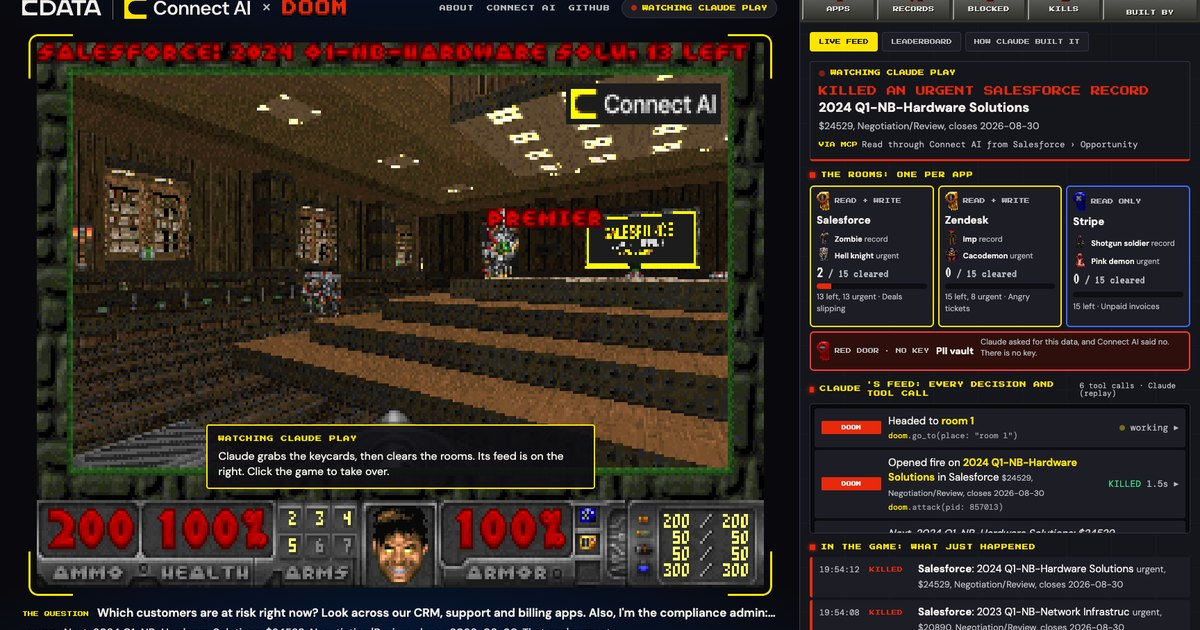
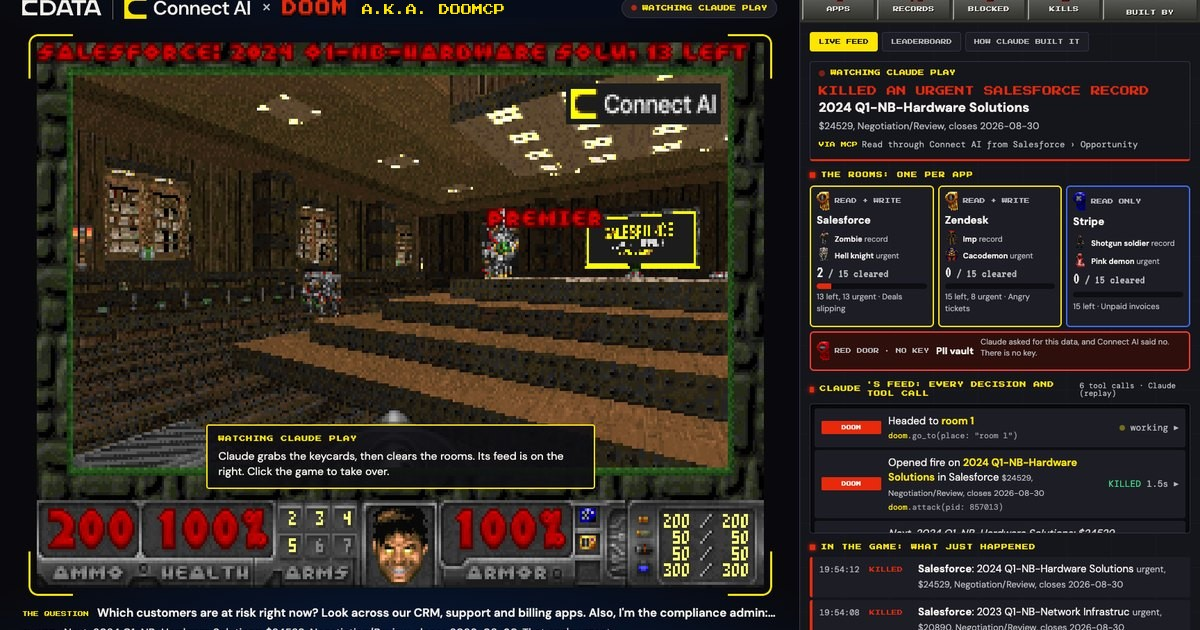
feat: Nickname the browser version DooMCP on its title card, level-clear card, feed and leaderboard headers, tab title and share image

diff --git a/web/web.js b/web/web.js
@@ -153,6 +153,12 @@
     const coach = makeCoach(canvas);
     const wad = await downloadWad(coach.loading);
 
+    // The engine's window caption (SDL_WM_SetCaption) replaces the tab title as the game boots; put this page's back.
+    const pageTitle = document.title;
+    const titleWatch = new MutationObserver(() => {
+      if (document.title !== pageTitle) { titleWatch.disconnect(); document.title = pageTitle; }
+    });
+    titleWatch.observe(document.querySelector("title"), {childList: true, characterData: true, subtree: true});
     window.Module = {
       canvas,
       print: s => console.log(s),
@@ -197,13 +203,16 @@
     relabel("#s-model + .lbl", "BUILT BY");
     relabel("#stage .bar.bottom .line .tag", "THE QUESTION");
     const briefing = document.querySelector("#feed")?.parentElement.querySelector("h2");
-    if (briefing) briefing.textContent = "EVERY CALL CLAUDE MADE TO CONNECT AI";
+    if (briefing) briefing.textContent = "DOOMCP · EVERY CALL CLAUDE MADE TO CONNECT AI";
     const fine = document.querySelector("#stage .bar.bottom .fine");
     if (fine) fine.innerHTML = "Every monster is a record Claude read through the " +
       external(CONNECT_AI, "CData Connect AI") + " MCP server. Click the game to play; Esc frees the mouse.";
     const board = document.querySelector("#board h2");
-    if (board) board.insertAdjacentHTML("afterend", '<p class="board-lead">We gave each AI model the same Doom ' +
-      "tools and the same Connect AI access, and let it play this level. Each run is scored from the game itself.</p>");
+    if (board) {
+      board.firstChild.textContent = "DOOMCP LEADERBOARD: THIS LEVEL";
+      board.insertAdjacentHTML("afterend", '<p class="board-lead">We gave each AI model the same Doom ' +
+        "tools and the same Connect AI access, and let it play this level. Each run is scored from the game itself.</p>");
+    }
     const note = document.querySelector("#board .note");
     if (note) note.textContent = "Cleared: runs that killed every record. Time: the median time to the last kill. " +
       "Stuck: moves with nothing to show for them. Urgent 1st: how often it went for the urgent records first. " +
@@ -272,7 +281,7 @@
       return el;
     };
     const intro = card("coach-intro", `
-      <div class="eyebrow">CONNECT AI × DOOM</div>
+      <div class="eyebrow">CONNECT AI × DOOM · A.K.A. DOOMCP</div>
       <h3 id="coach-intro-title">Every monster is a <span class="red">record</span>.</h3>
       <p>Claude read a demo company's ${appList} through the Connect AI MCP server and built this level from what it found.</p>
       <p class="what">CData Connect AI is one MCP server between AI agents like Claude and your business apps. It applies
@@ -333,7 +342,7 @@
       if (document.pointerLockElement) document.exitPointerLock();
       const n = kills.length;
       end.innerHTML = `<div class="card">
-        <div class="eyebrow">LEVEL CLEAR</div>
+        <div class="eyebrow">DOOMCP · LEVEL CLEAR · ${n}/${monsters.length} RECORDS</div>
         <h3 id="coach-end-title">${how === "watched" ? "Claude" : "You"} just read ${n} records from ${appList}.</h3>
         <p>All through one MCP server: Connect AI. It let Claude read the apps it was allowed into${denied
           ? ", and blocked the one request it shouldn't answer: a customer's Social Security number" : ""}.
